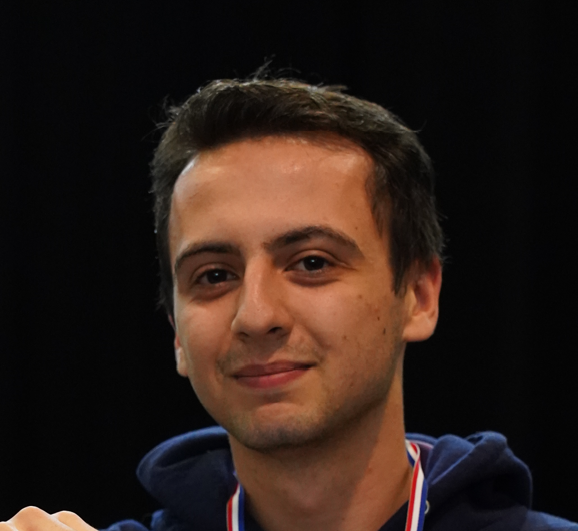
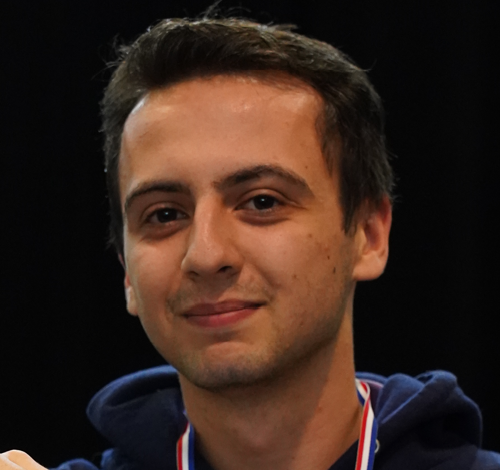
style sur bouton et entete
Former-commit-id: 7356688281f50f99081069545d5f0ff47194a0a8

diff --git a/src/css/style.scss b/src/css/style.scss
@@ -1,6 +1,6 @@
 @import url('https://fonts.googleapis.com/css2?family=League+Spartan:wght@100..900&display=swap');
 
-//Espace keyFrame
+//pour le panel
 @keyframes slideIn {
     from {
         transform: translateY(1000px);
@@ -11,6 +11,7 @@
     }
 }
 
+//pour le panel
 @keyframes slideOut {
     from {
         transform: translateY(0);
@@ -24,7 +25,7 @@
 //Animation de surlignement dynamique
 @keyframes PointToBar {
     0% {
-        transform: scaleX(0) translateX(0);
+        transform: scaleX(0);
     }
 
     30% {
@@ -40,21 +41,11 @@
     100% {
         transform: scaleX(0);
         transform-origin: right;
+        ;
     }
 }
 
-//Animation pour créer un effet d'ambiance
-@keyframes ambianceAnimation {
-    from {
-        transform: translateY(0);
-    }
 
-    to{
-        transform: translateY(10px);
-    }
-
-   
-}
 
 :root {
     --bg: whitesmoke;
@@ -85,6 +76,7 @@
 
                 &>li {
                     position: relative;
+
                     &:hover {
                         color: rgb(0, 191, 255);
                         transition: 0.2s;
@@ -181,16 +173,26 @@
 
         }
 
-        #imageLouis {
+        #louis_Pic {
+
             display: flex;
+            min-width: 300px;
+            min-height: 300px;
             align-items: center;
-            //animation: ambianceAnimation 2s infinite alternate cubic-bezier(0.60, 1, 0.22, 1);
+            background-image: url("../images/louis_cadre.png");
+            background-size: cover;
+            transition: background-image 0.5s;
+            text-decoration: none;
+
+            &:hover {
+                background-image: url("../images/louis_cadre2.png");
+                transition: background-image 0.5s ease;
+            }
         }
 
         #louis_Pic {
             height: 300px;
             border-radius: 10px;
-
         }
 
         .subs-divisions {
@@ -205,6 +207,7 @@
 
         .sub-division {
             display: flex;
+            position: relative;
             justify-content: center;
             align-items: center;
             font-size: 20px;
@@ -215,24 +218,47 @@
             min-height: 100px;
             color: var(--text-inBoxfont);
             background-color: var(--bgBox);
-            transition: font-size 0.5s, background-color 0.5s, color 0.5s;
+            z-index: 0;
+            transition: font-size 0.6s ease;
+
+            &:hover {
+                font-size: 21px;
+            }
+            &::before {
+                content: "";
+                position: absolute;
+                top: 0;
+                left: 0;
+                width: 100%;
+                height: 100%;
+                border-radius: 10px;
+                background: var(--gradient-color1);
+                //animation de la barre
+                transform-origin: left;
+                transform: scaleX(0);
+                transition: transform 300ms ease;
+                
+                z-index: -1;
+            }
+            &:hover::before {
+                transform: scale(1);
+            }
         }
 
-        .sub-division:hover {
-            font-size: 25px;
-            background-color: rgb(26, 0, 39);
-        }
+
 
         .collapse-section {
             background: none;
             font-family: "League Spartan";
             color: var(--text-inBoxfont);
             border: none;
+
+            &:hover {
+                text-decoration: underline;
+            }
         }
 
-        .collapse-section:hover {
-            text-decoration: underline;
-        }
+
 
         .pres-languages {
             display: flex;

diff --git a/src/js/script.js b/src/js/script.js
@@ -1,25 +1,24 @@
 $(document).ready(function(){
 
-    //quand on clique sur l'entete
-    $('.entete').on('click',function(){
-        let sectionName =$(this).attr('href')
-        showPanel(sectionName)
+    //clique sur l'entete
+    $('li ').on('click',function(){
+        let sectionName =$(this).find('a').attr('href');
+        if (sectionName){
+            showPanel(sectionName)
+
+        }
     })
 
     //lors du clique sur l'icone de l'entete
-    $('#iconBright').on('click',function(){
+    $('#iconColorMode').on('click',function(){
         changeBrightMode($(this));
     })
 
-    //quand on click sur une box text
+    // clique sur une box text
     $('.sub-division').on('click',function(){
         showPanel('#'+ $(this).attr('id'))
     })
     
-    $('.sub-division').on('hover',function(){
-        $(this).css({})
-    })
-
 })
 
 
@@ -48,7 +47,7 @@ function showPanel(currentID){
         "background-color":"rgb(0,0,0,0.2)"
     });
 
-    //panel
+    //style du panel
     $('.tempPanel').css({
         "display":"flex",
         "justify-content": "center",
@@ -60,8 +59,7 @@ function showPanel(currentID){
         "inset":"25%",  
         'border-radius':'15px',
         'animation-name': 'slideIn',  
-        'animation-duration': '0.5s'
-        
+        'animation-duration': '0.5s'  
     });
 
     $('.tempPanel').find('p').css({
@@ -76,7 +74,7 @@ function showPanel(currentID){
     });
 
 
-    //animations
+    //animation d'apparition du panel
     $('.overlay').fadeIn();   
     
     //on ajoute un event sur le bouton fermer pour supprimer le panel + overlay
@@ -87,6 +85,7 @@ function showPanel(currentID){
             'animation-duration': '0.5s' 
         });
 
+        //animation de disparition du panel
        $('.overlay').fadeOut(function(){
             $('.overlay').remove();
        })
@@ -94,8 +93,9 @@ function showPanel(currentID){
     })
 }
 
+//Gestion du mode clair/sombre
 function changeBrightMode(actualIcon){
-    if (actualIcon.attr("isBright")=="false"){
+    if (!isBrightTheme()){
         actualIcon.attr("isBright","true")
         actualIcon.attr("src","../images/sun.svg")
         //changement des couleurs définies dans root.
@@ -119,8 +119,9 @@ function changeBrightMode(actualIcon){
     }
 }
 
-function getActualcolorTheme(){
-    return $('#iconBright').attr('isBright')
+// Fonction pour obtenir le thème de couleur actuel
+function isBrightTheme(){
+    return $('#iconColorMode').attr('isBright') === "true";
 }
 
 

diff --git a/src/html/index.html b/src/html/index.html
@@ -20,7 +20,7 @@
                 <li>Projets professionnels<a class="entete" href="#professionnal"></a></li>
                 <li>Passions Personnelles<a class="entete" href="#perso"></a></li>
                 <li>Me contacter<a class="entete" href="#contact"></a></li>
-                <li><img id="iconBright" isBright="true" src="../images/sun.svg">
+                <li><img id="iconColorMode" isBright="true" src="../images/sun.svg">
             </ul>
         </nav>
     </header>
@@ -30,9 +30,9 @@
                 <h3 id="LouisPLabel">Louis Presti</h3>
         
             </div>
-            <div id="imageLouis">
-                <img id="louis_Pic" src="../images/louis_cadre.png">
-            </div>
+            
+                <img id="louis_Pic">
+            
         </div>
     </div>
 
